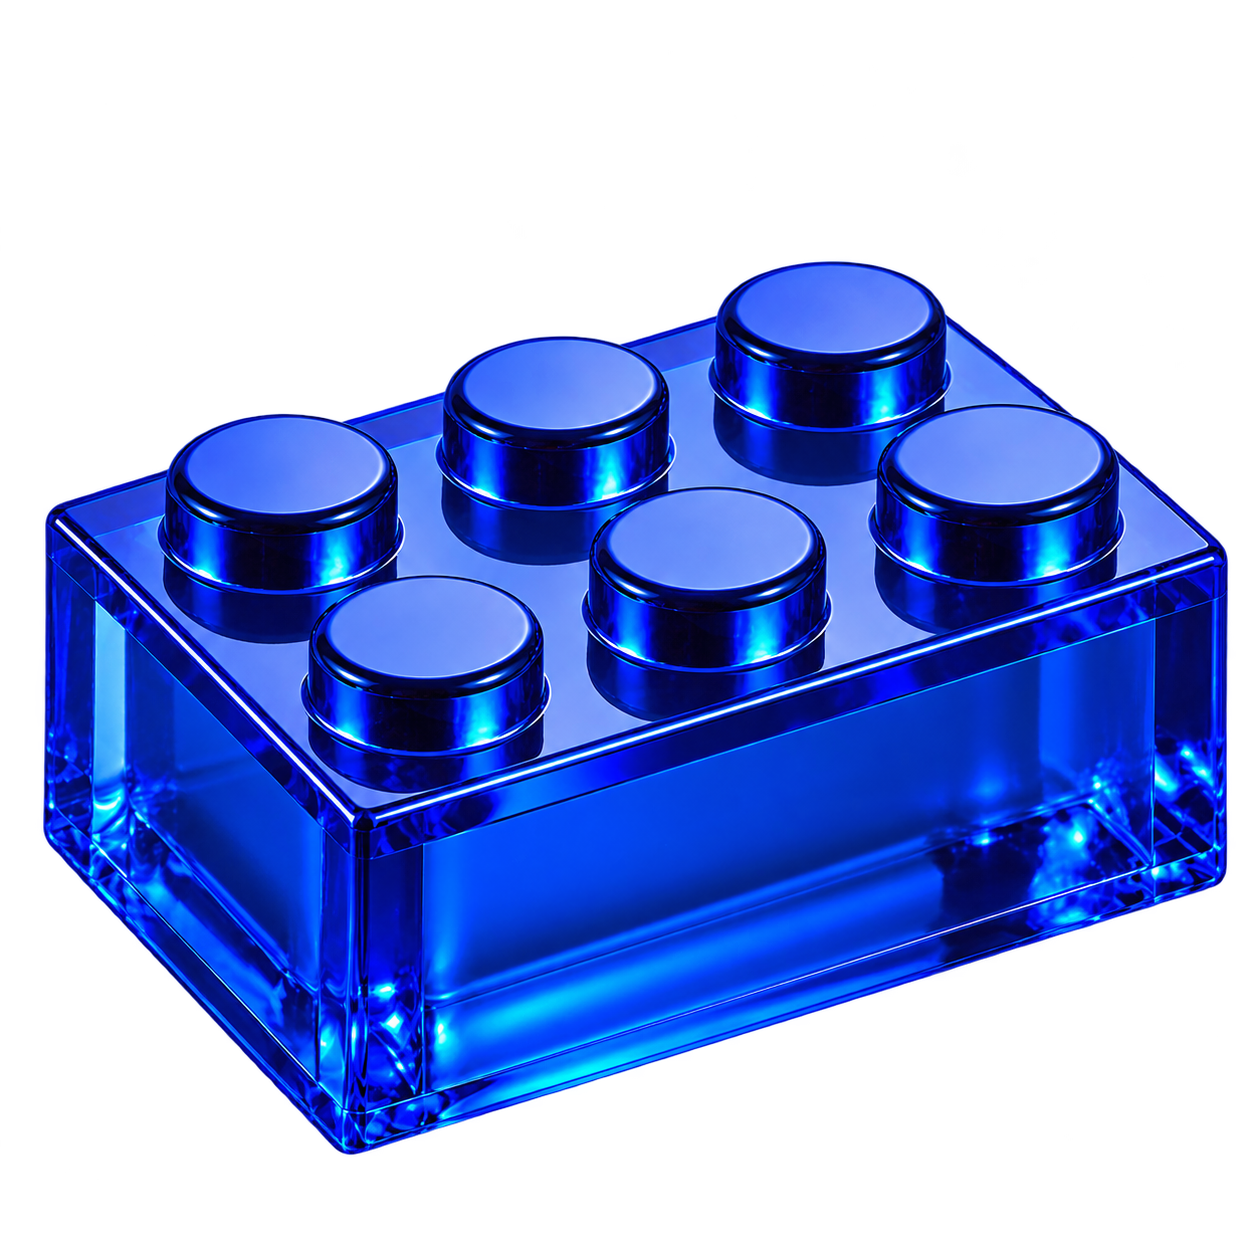
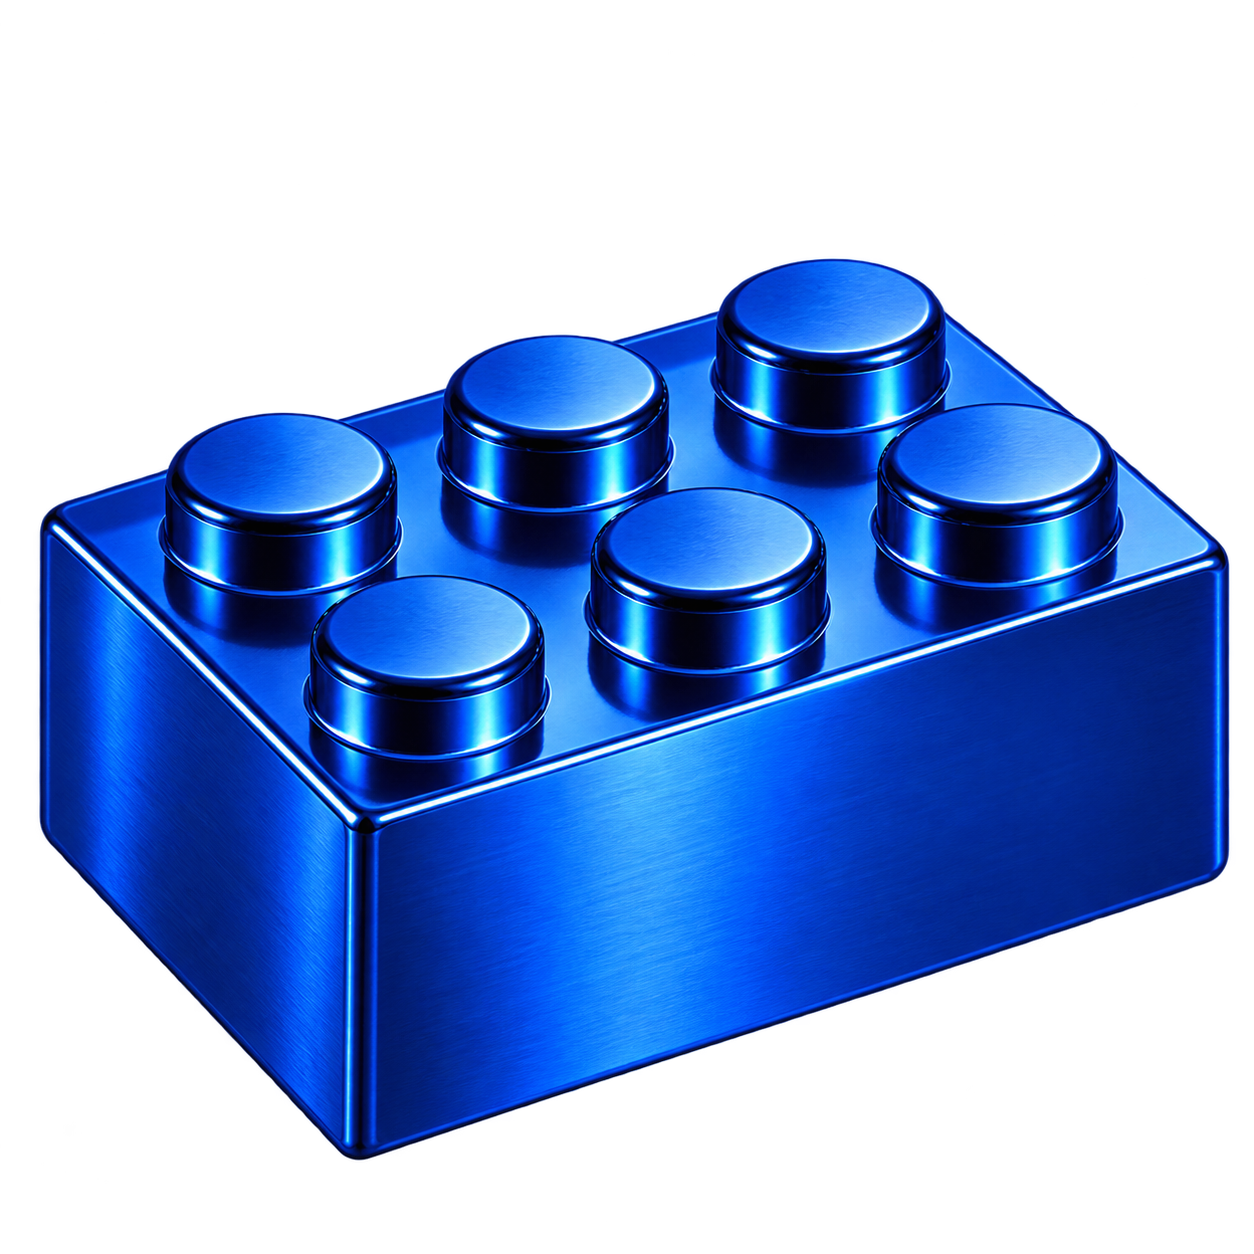
Use full opaque brick artwork

diff --git a/src/components/RenderSection/Introduction/introduction.module.scss b/src/components/RenderSection/Introduction/introduction.module.scss
@@ -52,14 +52,6 @@
     z-index: 2;
     left: 21.3%;
     bottom: 22%;
-    // Preserve the solid studs while letting the blue brick show through the lower shell.
-    mask-image: linear-gradient(
-      to bottom,
-      #000 0 45%,
-      rgb(0 0 0 / 90%) 58%,
-      rgb(0 0 0 / 68%) 82%,
-      rgb(0 0 0 / 75%) 100%
-    );
     transform: translate3d(0, var(--yellow-lift, -30%), 0) rotate(var(--yellow-rotation, -2deg));
     will-change: transform;
   }
